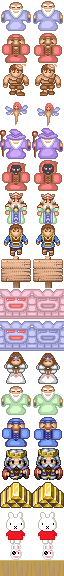
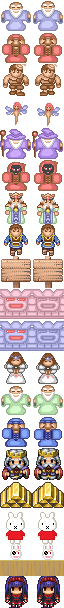
[feat]追加梅貓素材

diff --git a/project/enemys.js b/project/enemys.js
@@ -80,5 +80,6 @@ var enemys_fcae963b_31c9_42b4_b48c_bb48d09f3f80 =
 	"bearDown": {"name":"熊出没","hp":300,"atk":180,"def":120,"money":20,"exp":5,"point":0,"special":[],"faceIds":{"down":"bearDown","left":"bearLeft","right":"bearRight","up":"bearUp"},"bigImage":"bear.png"},
 	"bearLeft": {"name":"熊出没","hp":300,"atk":180,"def":120,"money":20,"exp":5,"point":0,"special":[],"faceIds":{"down":"bearDown","left":"bearLeft","right":"bearRight","up":"bearUp"}},
 	"bearRight": {"name":"熊出没","hp":300,"atk":180,"def":120,"money":20,"exp":5,"point":0,"special":[],"faceIds":{"down":"bearDown","left":"bearLeft","right":"bearRight","up":"bearUp"}},
-	"bearUp": {"name":"熊出没","hp":300,"atk":180,"def":120,"money":20,"exp":5,"point":0,"special":[],"faceIds":{"down":"bearDown","left":"bearLeft","right":"bearRight","up":"bearUp"}}
+	"bearUp": {"name":"熊出没","hp":300,"atk":180,"def":120,"money":20,"exp":5,"point":0,"special":[],"faceIds":{"down":"bearDown","left":"bearLeft","right":"bearRight","up":"bearUp"}},
+	"E354": {"name":"新敌人","hp":0,"atk":0,"def":0,"money":0,"exp":0,"point":0,"special":[]}
 }

diff --git a/project/maps.js b/project/maps.js
@@ -252,6 +252,8 @@ var maps_90f36752_8815_4be8_b32b_d7fad1d0542e =
 	"351": {"cls":"npcs","id":"N351"},
 	"352": {"cls":"npcs","id":"N352"},
 	"353": {"cls":"npc48","id":"N353","faceIds":{"down":"tallGreenDoor","left":"tallSpecialDoor","right":"tallSteelDoor","up":"N353"}},
+	"354": {"cls":"enemys","id":"E354"},
+	"355": {"cls":"npcs","id":"N355"},
 	"30132": {"cls":"tileset","id":"X30132","event":[]},
 	"90268": {"cls":"tileset","id":"X90268","canPass":true}
 }

diff --git a/project/icons.js b/project/icons.js
@@ -120,7 +120,8 @@ var icons_4665ee12_3a1f_44a4_bea3_0fccba634dc1 =
 		"N331": 14,
 		"N345": 15,
 		"N351": 16,
-		"N352": 17
+		"N352": 17,
+		"N355": 18
 	},
 	"npc48": {
 		"npc0": 0,
@@ -208,7 +209,8 @@ var icons_4665ee12_3a1f_44a4_bea3_0fccba634dc1 =
 		"blueKing": 45,
 		"keiskeiFairy": 71,
 		"tulipFairy": 72,
-		"purpleBowman": 65
+		"purpleBowman": 65,
+		"E354": 73
 	},
 	"enemy48": {
 		"angel": 0,
